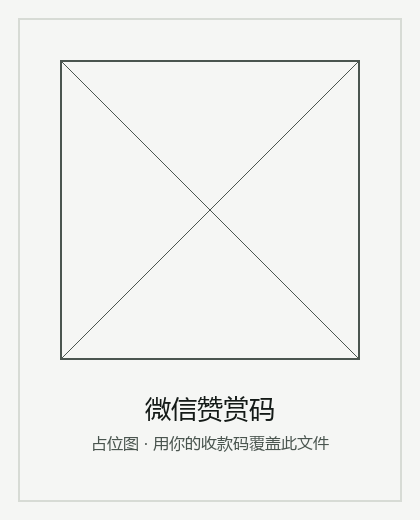
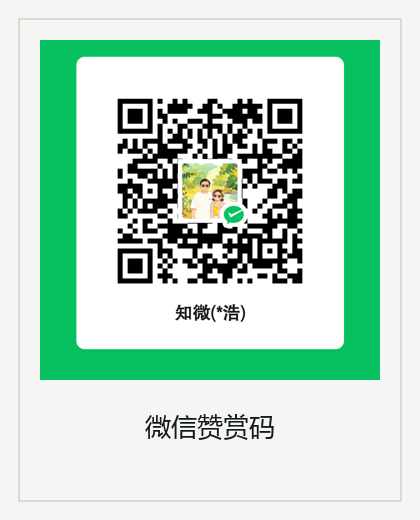
site: 用爱发电 —— 接入真实微信/支付宝收款码（自动裁剪嵌入）

Changed region(s): [[0.0929, 0.0615, 0.9286, 0.8923], [0.2786, 0.1846, 0.7429, 0.5538], [0.4024, 0.5846, 0.5881, 0.6154]]

diff --git a/site/index.html b/site/index.html
@@ -360,7 +360,7 @@
               <img class="donate__qr" src="donate/wechat.png" alt="微信赞赏码" />
             </div>
             <div>
-              <div class="plat"><span class="plat__name">支付宝收款码</span><span class="plat__tag">待补充</span></div>
+              <div class="plat"><span class="plat__name">支付宝收款码</span></div>
               <img class="donate__qr" src="donate/alipay.png" alt="支付宝收款码（待放置）" />
             </div>
           </div>
